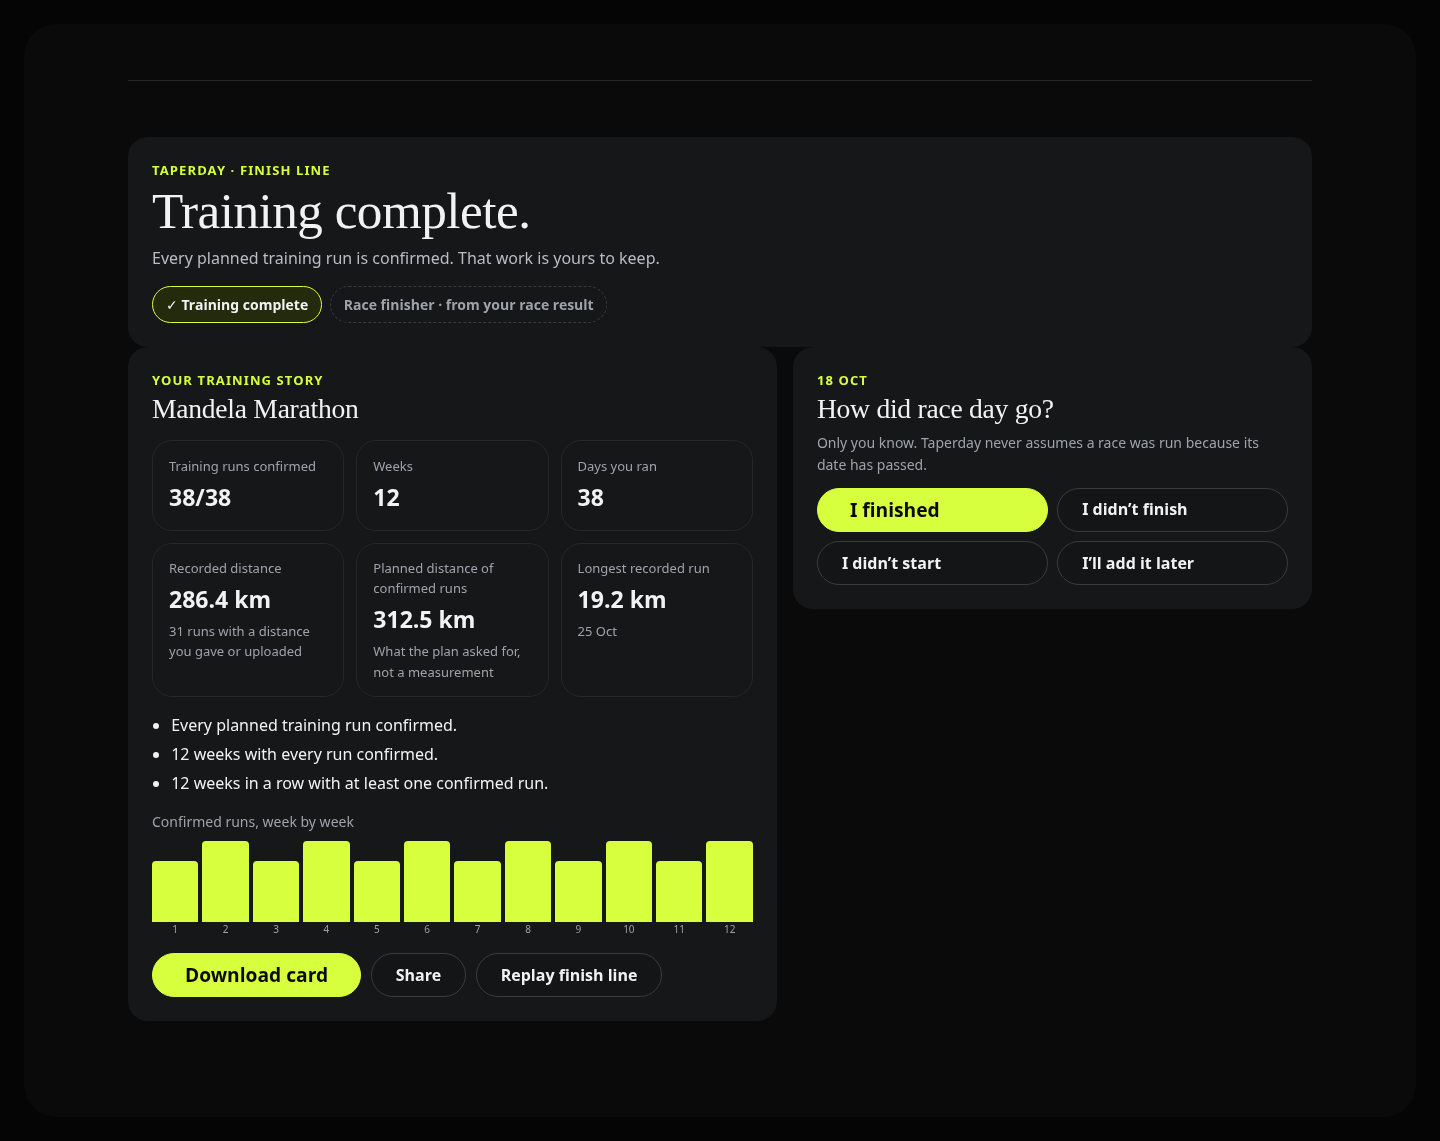
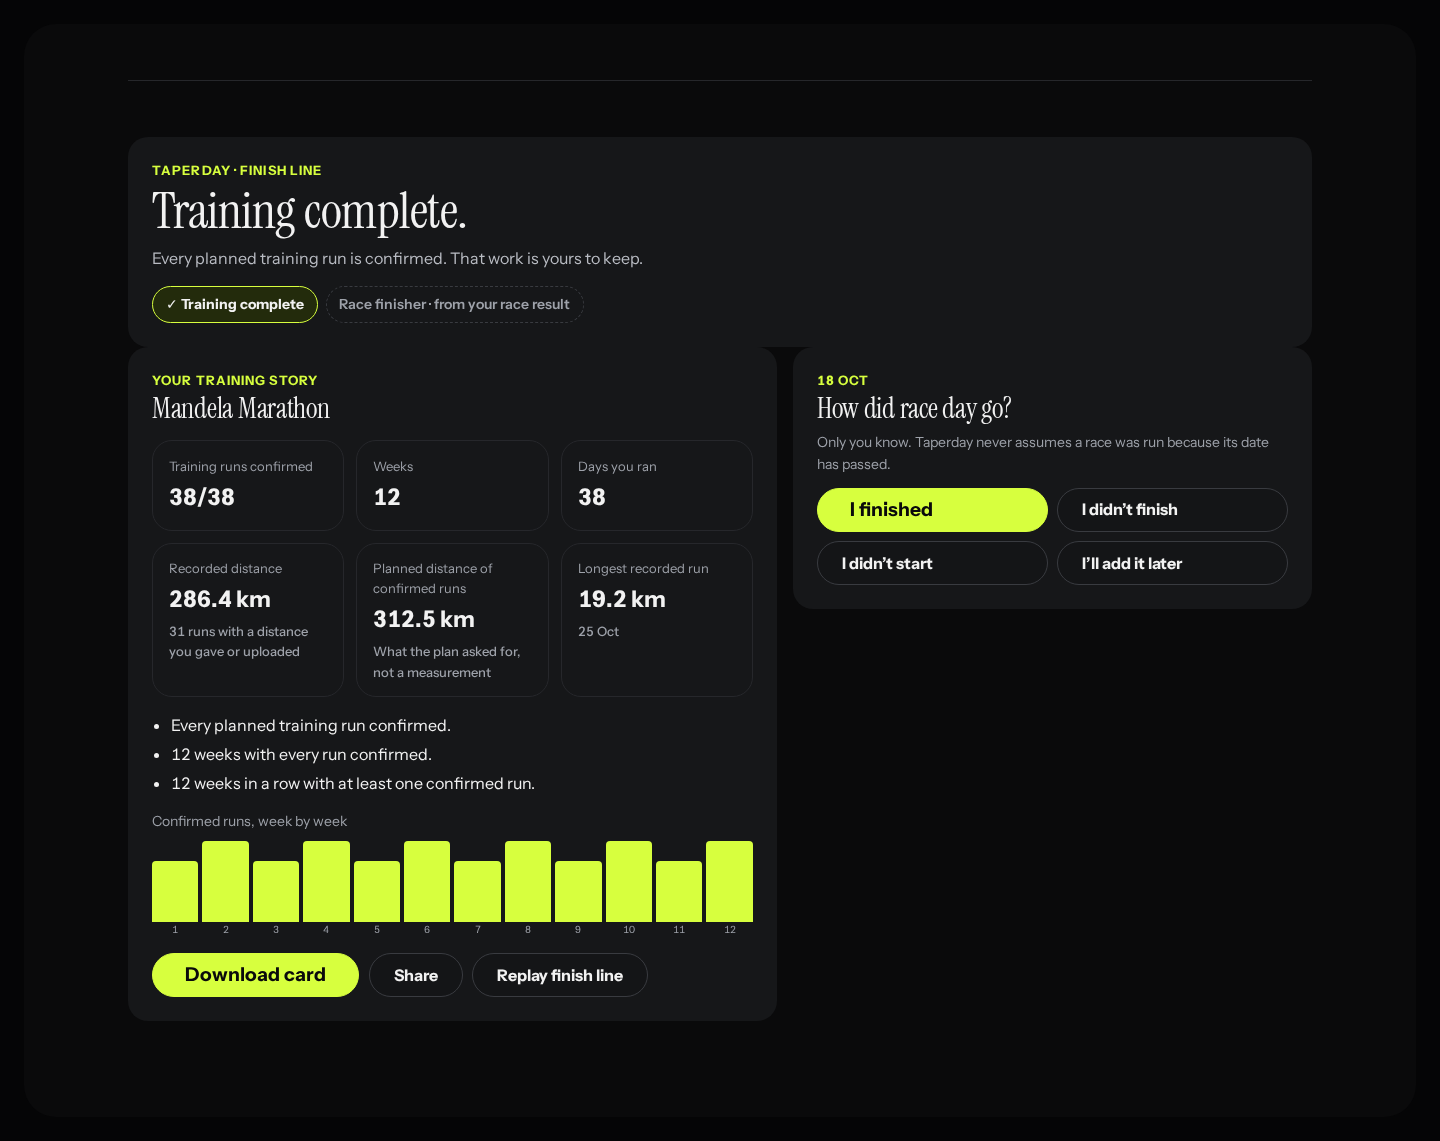
docs(qa): verify shipped fonts in baseline comparisons

diff --git a/docs/qa/2026-11-14/strava-race-results.md b/docs/qa/2026-11-14/strava-race-results.md
@@ -43,7 +43,7 @@ Reviewed captures: race suggestion at 375 px in [light](strava-race-results/race
 
 ## Before / after
 
-Before captures run the unchanged application code from the comparison base, staging commit `c3d4dee537e4b0cab18d46826b05314a88741f16`. Only the test fixture was supplied with the same synthetic Mandela Marathon chapter and existing Strava recording used for the after captures. These are local browser renders and actual downloads, not production screenshots or design mockups.
+Before captures run the unchanged application code from the comparison base, staging commit `c3d4dee537e4b0cab18d46826b05314a88741f16`. Only the test fixture was supplied with the same synthetic Mandela Marathon chapter and existing Strava recording used for the after captures. Both Instrument Serif and Instrument Sans Variable are explicitly loaded and checked before capture, avoiding fallback-font differences between checkouts. These are local browser renders and actual downloads, not production screenshots or design mockups.
 
 | Surface | Before | After |
 | --- | --- | --- |
